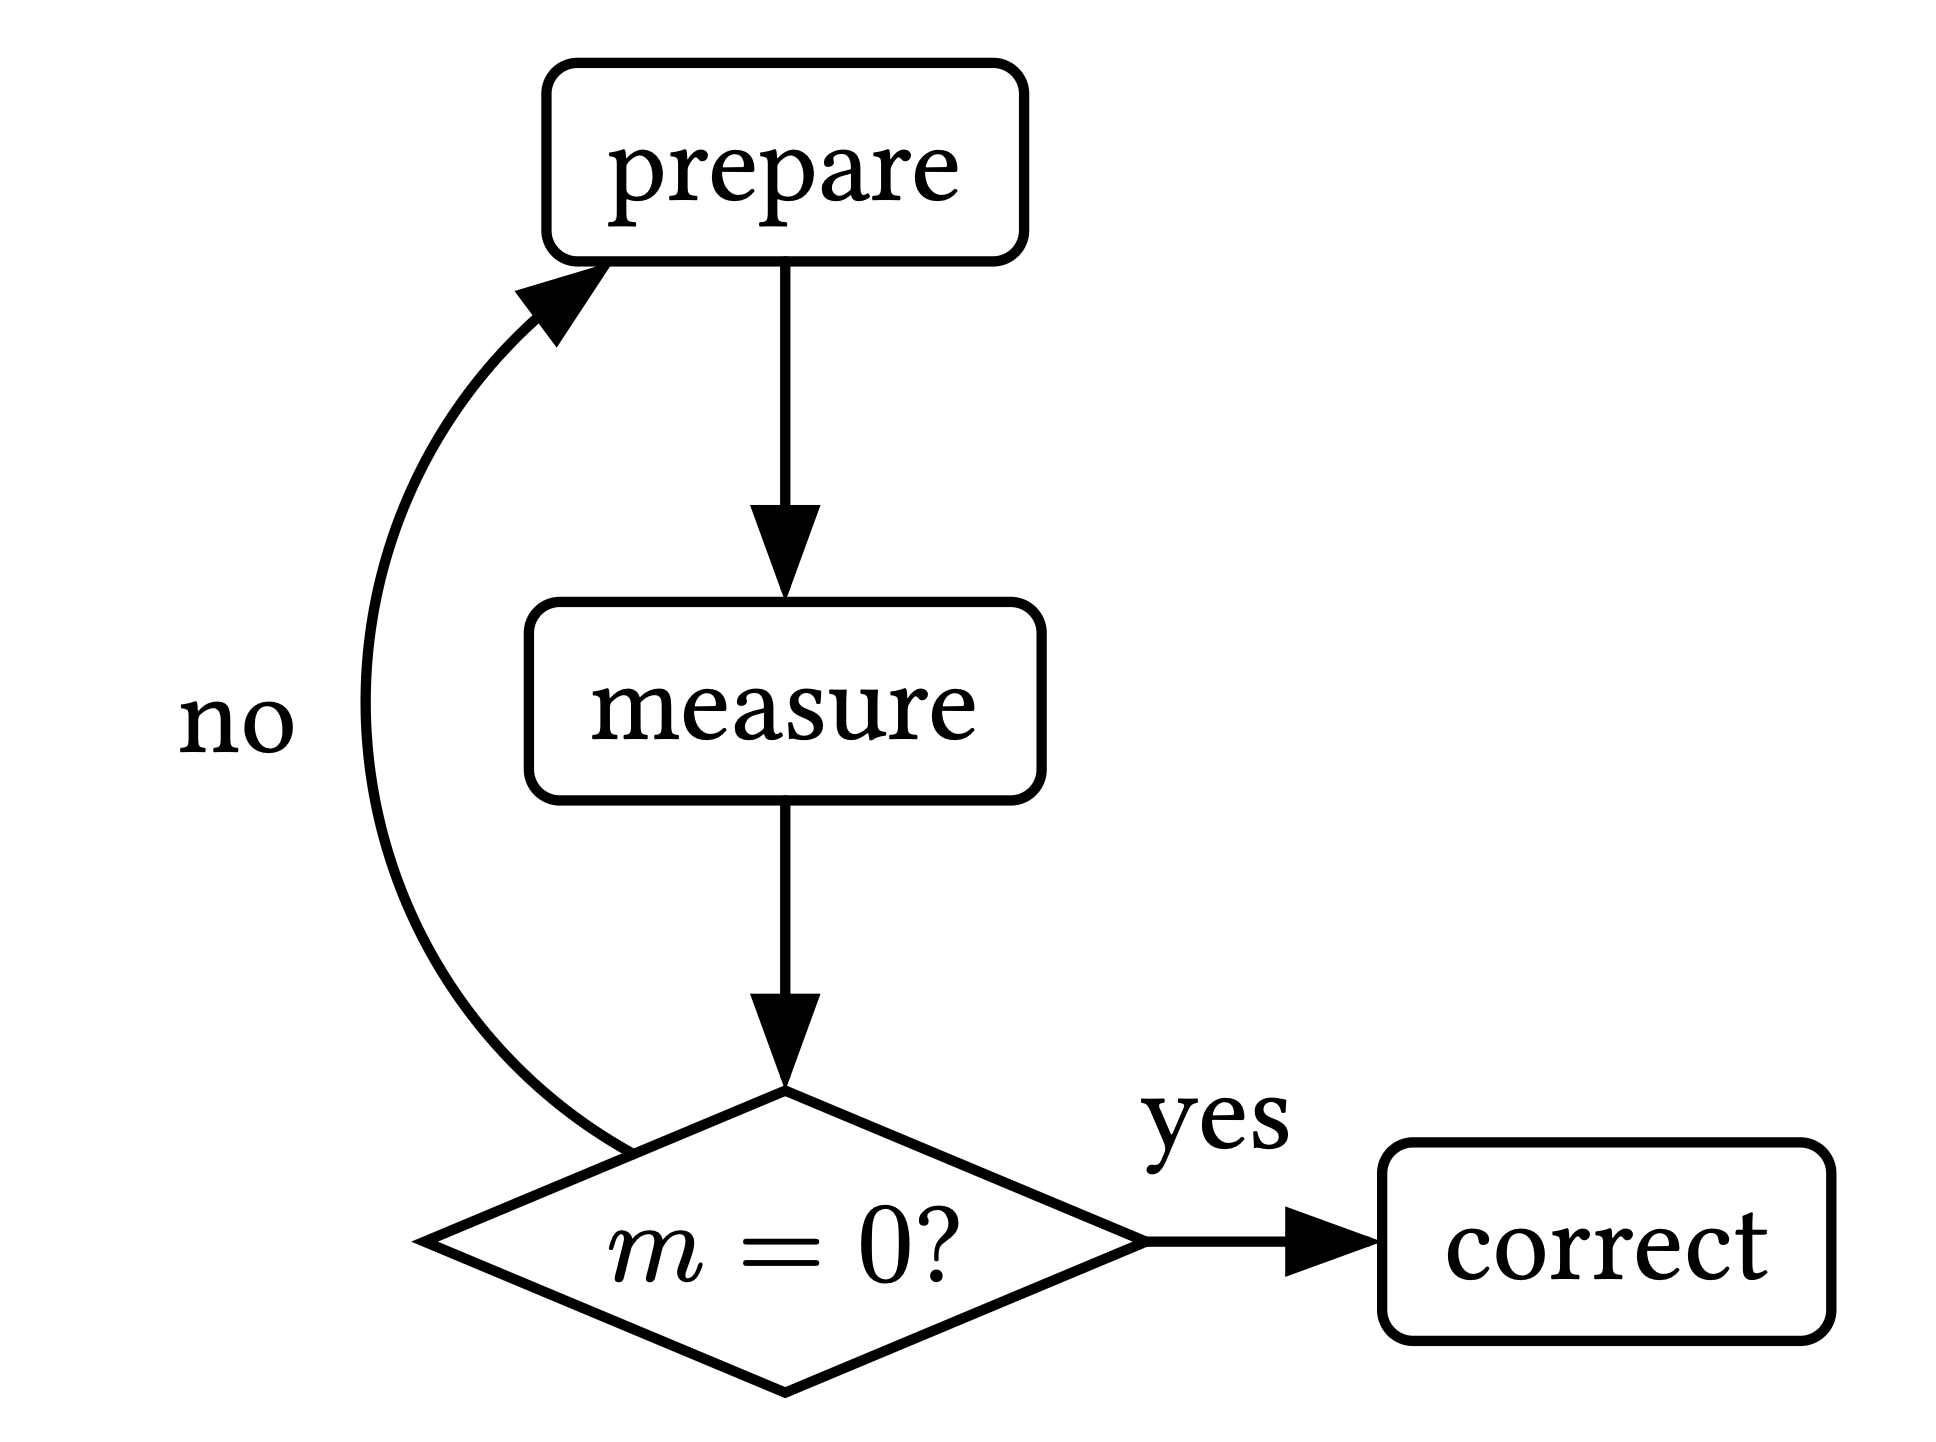
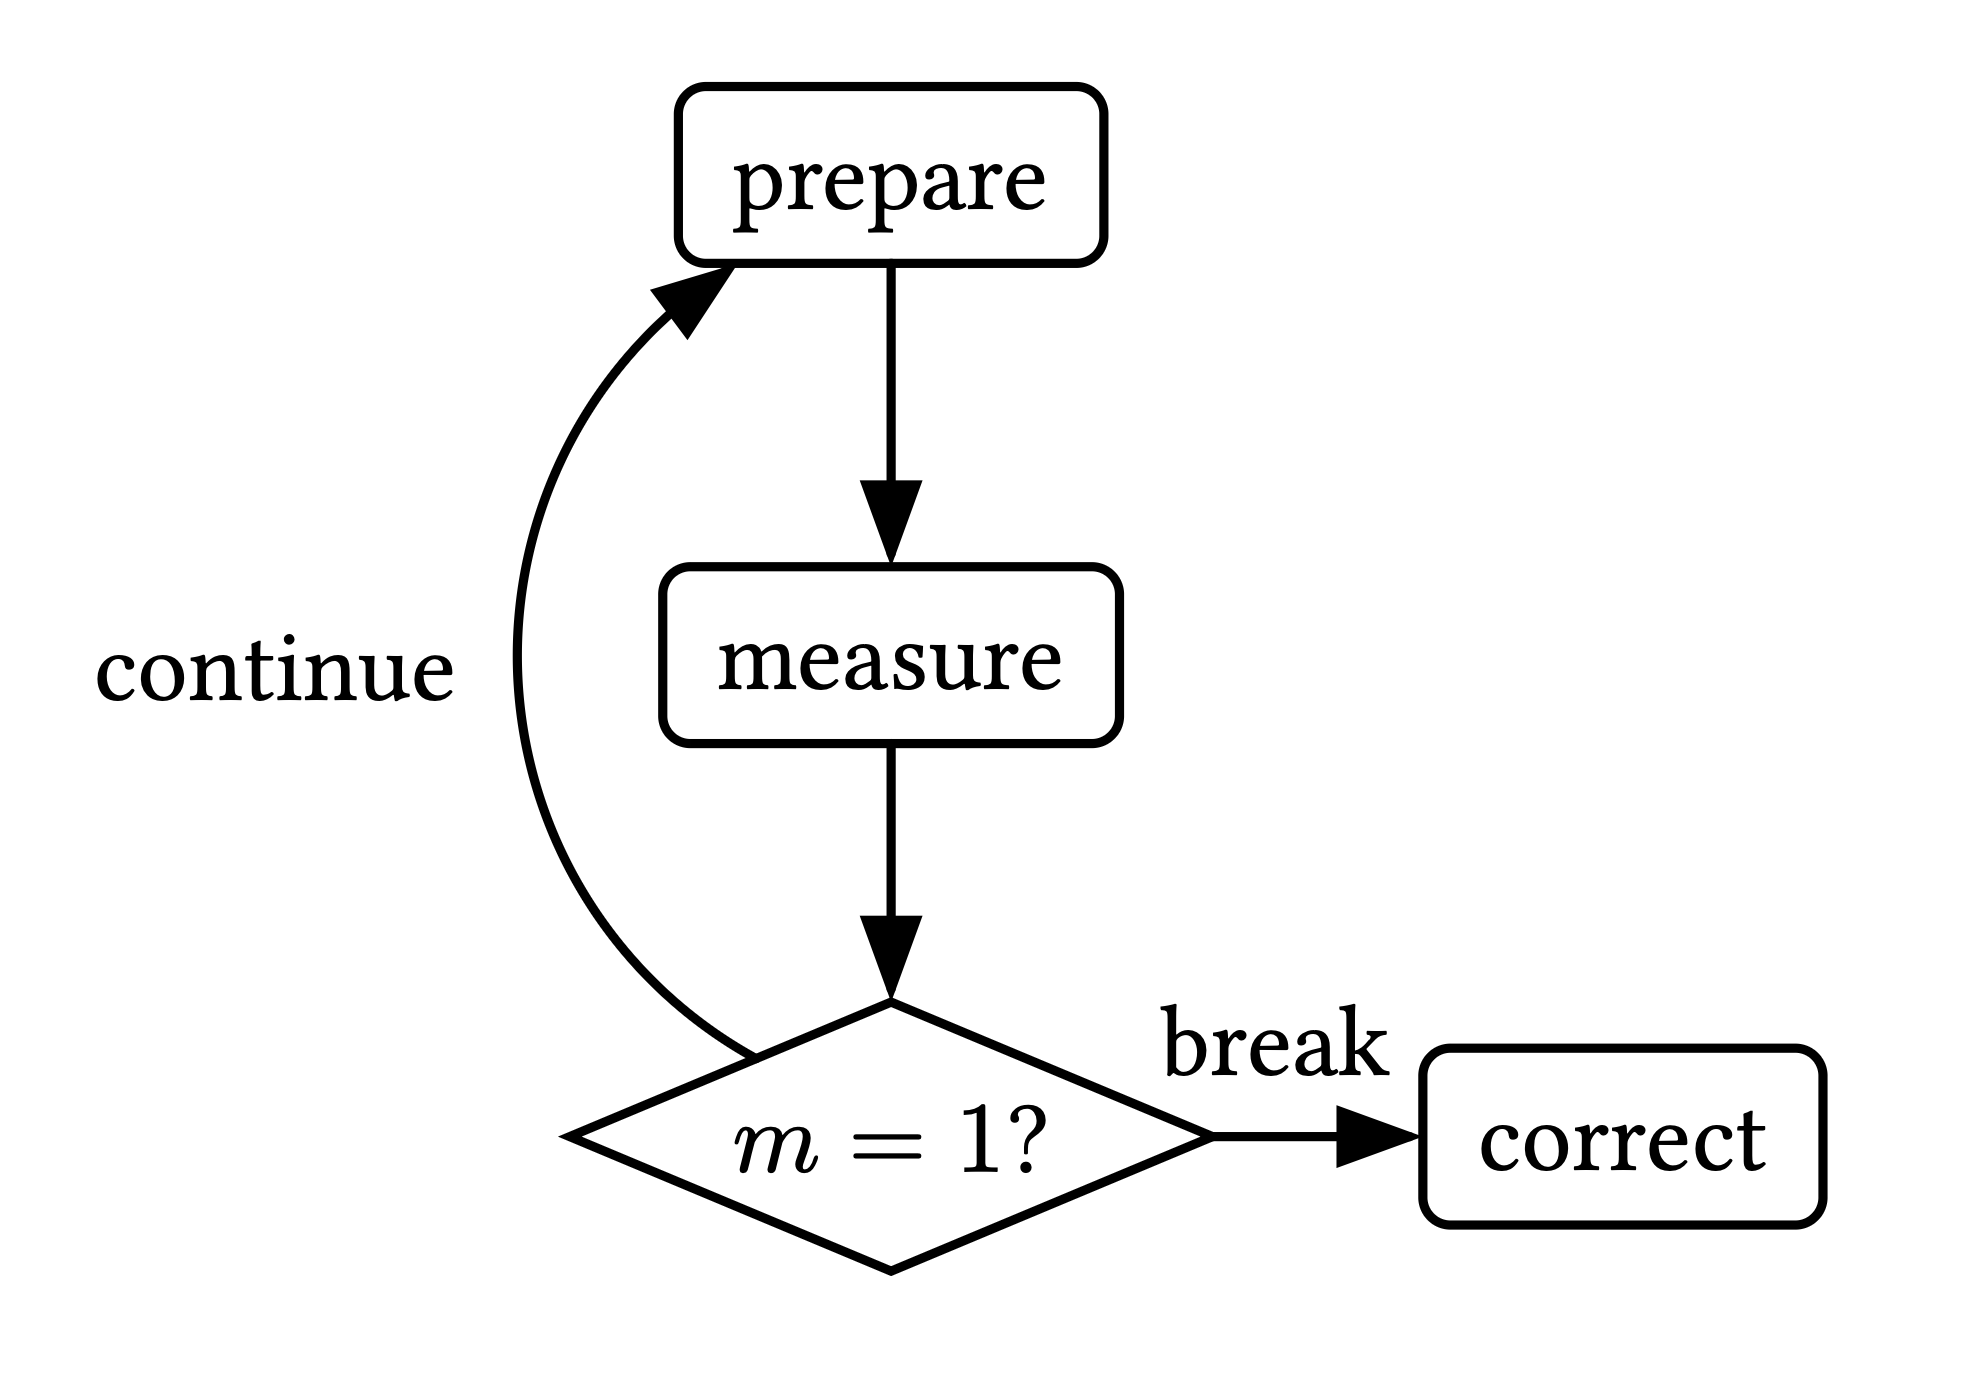
Finish first draft(excl. last example)

diff --git a/hugr-py/docs/api-docs/guide/python-intro-1.md b/hugr-py/docs/api-docs/guide/python-intro-1.md
@@ -1,6 +1,6 @@
 # A Beginner's Guide to Building HUGR Graphs in Python
 
-[TODO: Intro]
+The goal of this guide is to give a practical introduction to constructing HUGR graphs using the Python interface, demonstrating how various HUGR features lend themselves well to representing quantum algorithms.
 
 ## Translating a basic circuit into HUGR
 
@@ -33,7 +33,7 @@ Visualising the HUGR results in the following diagram:
 
 While we haven't added any nodes to the graph ourselves yet, we can already notice the similarity between dataflow graph edges of type `Qubit` and wires in a circuit both representing qubit values.
 
-However there are also differences - notably, the HUGR consists of multiple **regions**, with each region container having its own input and output nodes. This is where the **hierarchical** part of "Hierarchical Unified Graph Representation" (HUGR) comes from. Certain nodes can themselves subgraphs as their children. In our graph we can see some of those nodes:
+However there are also differences - notably, the HUGR consists of multiple **regions**, with each region container having its own input and output nodes. This is where the **hierarchical** part of "Hierarchical Unified Graph Representation" (HUGR) comes from. Certain nodes can themselves contain subgraphs as their children. In our graph we can see some of those nodes:
 - The `Module` node is a top-level node which as children can only have function definitions, function declarations, or constants.
 - Each module needs at least one function definition that acts as an entrypoint to the graph (however for the module to be executable, the function cannot take any inputs). In this case we have a `FuncDefn` node called `main` by default.
 - Finally, the function definition contains the `DFG` we created, so far only containing an input and output node. Note how each port on a node is indexed and ordered.
@@ -101,9 +101,9 @@ circ.track_wires([q0, q1])
 
 You can find the full example code [here](code/example-basic.py).
 
-## Adding control flow to represent dynamic measurements
+## Adding control flow around dynamic measurements
 
-So far all the data in our graph only followed one specific path. What if we now wanted change the example to do something depending on the outcome of the measurement of the first qubit?
+So far all the data in our graph only followed one specific path. What if we now wanted to change the example to do something depending on the outcome of a measurement?
 
 We still start with a `TrackedDfg` with no inputs as before, but then to make it easier to follow what happens with each qubit, let's rename `q0` and `q1` to `data` and `ancilla` and also give the measurement result a name.
 
@@ -118,7 +118,7 @@ measurement = circ.add(quantum.measure_free(ancilla))
 result = circ.add(measure.read(measurement))
 ```
 
-We then add a `Conditional` node, which creates a new region with subgraphs for each case. We can use `add_if` as a special short hand for a conditional with two cases that branches based on a `Bool` value. In the `True` branch (`result = 1`) we will "correct" the `data` qubit by applying an `X` gate operation, otherwise we just pass the qubit back untouched.
+We then add a **conditional** node (`Conditional`), which creates a new region with subgraphs for each case. We can use `add_if` as a special short hand for a conditional with two cases that branches based on a `Bool` value. In the `True` branch (`result = 1`) we will "correct" the `data` qubit by applying an `X` gate operation, otherwise (`result = 0`) we just pass the qubit back untouched.
 
 ```py
 with circ.add_if(result, data) as if_:
@@ -131,22 +131,58 @@ with if_.add_else() as else_:
 circ.set_outputs(if_.conditional_node[0])
 ```
 
-It is possible to not use context managers and instead assign the results of `add_if` and `add_else` to builder variables (and then it is also possible to convert those builders into tracked versions). However using `with` blocks is a useful way of keeping track of the hierarchy, as each block represents a new subgraph inside a node in the dataflow graph.
+It is possible to not use context managers and instead assign the results of `add_if` and `add_else` to builder variables (and then it is also possible to convert those builders into tracked versions). However using `with` blocks is a useful way of keeping track of the hierarchy, as each block represents a new subgraph inside a node in the dataflow graph, visualised here as new regions:
 
 ![](images/control-flow1.svg)
 
-[TODO: Finish writing this section]
+Of course just flipping a qubit isn't a very meaningful thing to do from a quantum perspective, however it showcases the building blocks needed to construct a HUGR in which you first prepare a quantum state and then act on it or correct it based on some ancilla measurement.
 
-- Not a realistic scenario, but general building block of preparing and then correcting based on some ancilla measurement
-- Another common scenario are repeat-until-success algorithms, where we do not only branch once, but keep iterating until some condition is met
-
-[TODO: Add break and continue to diagram, fix retry condition]
+Another common scenario is not only branching once, but also repeat-until-success algorithms where we need to prepare a state over and over again until it satisfies a certain condition.
 
 ![](images/loop-diagram.png)
 
-- The way this can be represented in HUGR is TailLoops
-- Tail loops branch based on sum types, generalisation of the bool type which is a special unit sum
-- In general can tag types, here we use break and continue (alias for left and right)
+This can be represented in HUGR through a **tail loop** node (`TailLoop`).
+
+Tail loops decide whether to keep iterating or exit the loop based on a **sum type** value. Sum types are types whose values belong to exactly one of several variants, with each value consisting of a tag signifying which variant it is, plus whatever data the variant carries. For example, the `Bool` type in HUGR is a sum of two unit variants. More generally, a common sum type is `Either`, with `Left` and `Right` tags which can carry some data. We will use this type as the  condition for our loop, carrying a qubit as data in both cases:
+
+```py
+either_ty = tys.Either([tys.Qubit], [tys.Qubit])
+```
+
+We can then add the loop node, with the data qubit being allocated once before we start iterating and the ancilla allocation and state preparation happening inside the loop:
+
+```py
+data = circ.add(quantum.qAlloc())
+
+with circ.add_tail_loop([data], []) as loop:
+    [loop_data] = loop.inputs()
+    ancilla = loop.add(quantum.qAlloc())
+    ancilla = loop.add(quantum.H(ancilla))
+    loop_data, ancilla = loop.add(quantum.CX(loop_data, ancilla))
+
+    measurement = loop.add(quantum.measure_free(ancilla))
+    result = loop.add(measure.read(measurement))
+```
+
+Then we build the same conditional again, but instead of simply setting the qubit as its output, we tag it by using `Break` or `Continue` operations (which are convenient ways in the standard library for constructing `Right` and `Left` tags):
+
+```py
+    with loop.add_if(result, loop_data) as if_:
+        flipped = if_.add(quantum.X(if_.input_node[0]))
+        tagged_cont = if_.add(ops.Break(either_ty)(flipped))
+        if_.set_outputs(tagged_cont)
+
+    with if_.add_else() as else_:
+        tagged_break = else_.add(ops.Continue(either_ty)(else_.input_node[0]))
+        else_.set_outputs(tagged_break)
+```
+Finally, set the loop outputs to be the output of the conditional, and the DFG outputs to be the output of the loop and the graph is done!
+
+```py
+    loop.set_loop_outputs(if_.conditional_node[0])
+
+circ.set_outputs(*loop.outputs())
+```
 
 ![](images/control-flow2.svg)
 
@@ -154,18 +190,45 @@ You can find the full example code [here](code/example-control-flow2.py).
 
 ## Generalising through functions and polymorphism
 
-[TODO: Finish writing this section]
+As discussed earlier, you might want to generalise the loop we constructed to work for different `prepare` and `correct` sequences. Or you simply don't want have to constantly add the same gate sequences to a graph. The best way to do this is by using **functions**.
 
-- As diagram showed earlier, you might want to generalise this loop, or group together common sequences of gates that can be reused
-- We can do this by defining functions on the module in addition to the main function, and then calling them where we previously added operations directly
+Functions can be defined as children of the module node using `define_function`, alongside the `main` function we have already seen. The method takes a function name and type signature and returns a builder we can add nodes to just as we did with DFG, conditional, or loop builders.
+
+Let's put any gates we added in the previous example into two functions instead, `prepare` and `correct`, abstracting them away from the loop logic.
+
+```py
+module = circ.module_root_builder()
+
+with module.define_function("prepare", [tys.Qubit, tys.Qubit]) as prepare:
+    p_data, p_ancilla = prepare.inputs()
+    p_ancilla = prepare.add(quantum.H(p_ancilla))
+    p_data, p_ancilla = prepare.add(quantum.CX(p_data, p_ancilla))
+    prepare.set_outputs(p_data, p_ancilla)
+
+with module.define_function("correct", [tys.Qubit]) as correct:
+    (c_data,) = correct.inputs()
+    c_data = correct.add(quantum.X(c_data))
+    correct.set_outputs(c_data)
+```
+
+Then they can be used inside of the DFG through call nodes. Note that we always require the `FuncDefn` node in order to create a `Call`, which is the parent of the function graph the `define_function` method returns.
+
+```py
+...
+# Inside the loop builder:
+loop_data, ancilla = loop.call(prepare.parent_node, loop_data, ancilla)
+...
+# Inside the if branch:
+flipped = if_.call(correct.parent_node, if_.input_node[0])
+...
+```
 
 ![](images/functions1.svg)
 
-- We can use this same pattern to now use more complicated useful preparation and correction gadgets defined in those function, with the repeat-until-success loops working in the same manner
-- One final feature for this tutorial that might prove useful to do this is polymophism, so the ability to define functions that work for different types or different parameters
-- a common data structure utilising bounded nats for example are arrays
-- To start with a simple extention to demonstrate this, let's add a `correct_all` function which operates on an array of qubits instead of only one, and use it inside of our loop (even though we only have one qubit)
+We can use this same pattern to define more complicated and useful preparation and correction gadgets in those functions. One final HUGR feature we will look at in this guide is polymorphism: the ability to define functions that work for different types or parameters.
 
-[TODO: Finish diagram and code for polymorphic example]
+To demonstrate this, let's add a `correct_all` function which operates on an array of qubits instead of only one qubit and applies a `X` gate to all od them.
+
+[TODO: Finish code, diagram, and text for polymorphic example]
 
 You can see the full example code [here](code/example-functions2.py).
